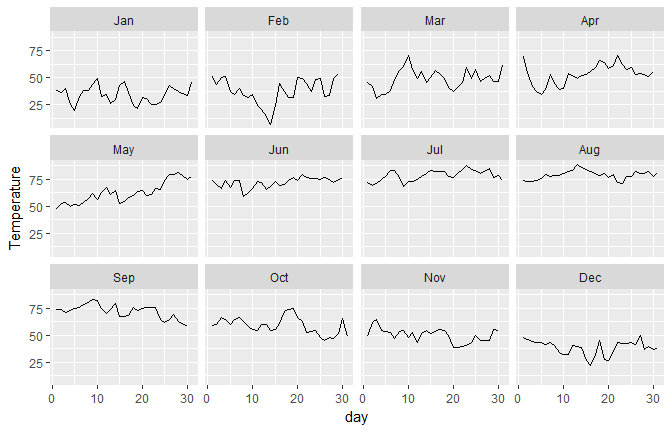
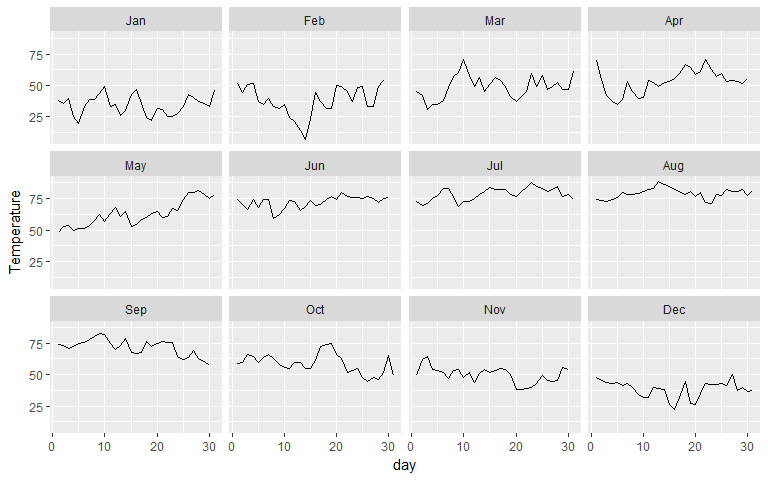
Changed figure dimensions

diff --git a/Lectures/Lesson_02_Data_Cleaning_github.md b/Lectures/Lesson_02_Data_Cleaning_github.md
@@ -725,10 +725,10 @@ Performing an `anti_join` on the two datasets
     ## # A tibble: 4 x 3
     ##   month     D Temperature
     ##   <chr> <dbl>       <dbl>
-    ## 1   Apr     5        34.5
-    ## 2   Nov    13        51.0
-    ## 3   Sep     6        75.5
-    ## 4   Jan     6        33.0
+    ## 1   May    27        80.0
+    ## 2   Sep     6        75.5
+    ## 3   Nov    12        43.5
+    ## 4   Nov    13        51.0
 
     ## [1] 9 3
 
